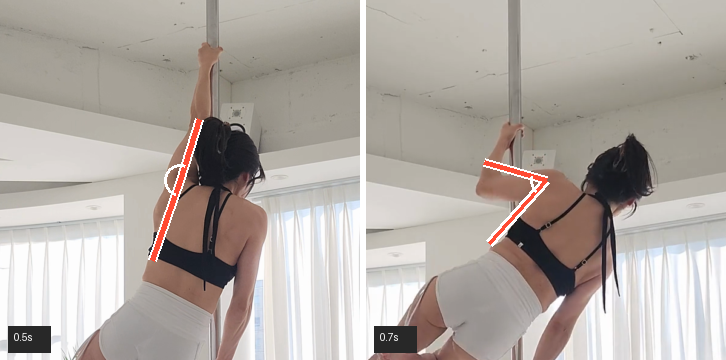
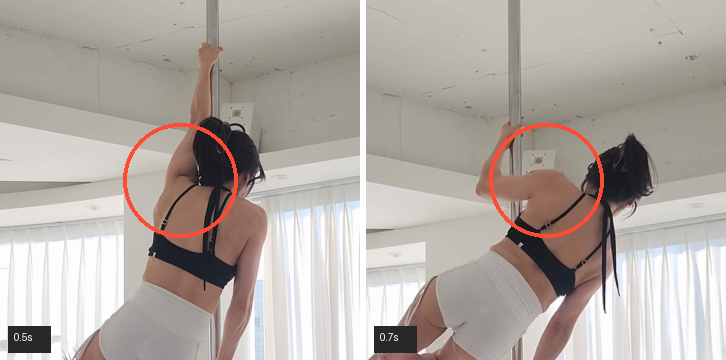
feat(quick-260814-rcz): 각도 V 마크 적용 조건 게이트 배선 (순수 함수 + 진입점 1곳)
belle 08-14 "잘한 영상쪽 각도가 좀 애매해" 의 처방. 임계는 Task 2 에서 재고
정한 값(MEASURE.md 소유)이고 여기서는 배선만 한다.

- angle_mark_admissible(user_inner, ref_inner) -> (그릴지, 사유) 순수 함수
- ANGLE_MARK_MAX_PANEL_DIFF_DEG = 99.6 — 어떤 카드 집합에서 어떻게 쟀는지
  모듈 주석에 박제(P 9건/N 1건, 축 A1~A6 기각 사유, 표본 한계 14.77도 여유)
- 배선 = 각도 베이크 블록, shift_bake_spec 적용 직후(실제로 그려질 좌표) 1곳.
  하이브리드가 쓰던 _spec_inner_deg_px 호출과 공유 = 중복 계산 0
- 미충족이면 angle_reason 에 사유만 넣고 드로잉 skip -> 기존 원 마커 폴백으로
  자연히 떨어진다(3635행 분기 무변경, 새 표면 0)
- fail-open: 사이각 None/비유한/비수치면 오늘과 동일하게 그린다

무회귀 실측 (실행 로그가 증인):
- 승인 5동작 카드 10/10 md5 == u8i 정본 (패치 전/후 전건 동일)
- cand17B(belle 채택) md5 동일 — 무손상
- cand01E 만 변경 + 운영 로그 `angle_bake=omitted:panel_diff_114.4` 실물
- 카드 PNG 육안 확인: V 소멸 + 양 패널 원 마커 폴백 (새 표면 0)

게이트: 신규 22 PASS · pytest 기준선 59 failed 동일(4325->4347 passed) ·
typecheck PASS · 산식 5파일 diff 0 · Gemini 실호출 0 · Pod 무접촉

diff --git a/backend/tests/test_fault_zoom_angle_admissible.py b/backend/tests/test_fault_zoom_angle_admissible.py
@@ -1,0 +1,122 @@
+"""각도 V 마크 적용 조건 게이트 — quick-260814-rcz Task 3.
+
+belle 2026-08-14 (powerspin cand01E): "각도를 표기한다고 해도 잘한 영상쪽 각도가
+좀 애매해 저렇게 표기하는게 맞는지 모르겠네".
+
+임계의 **소유자는 MEASURE.md** 이고 이 테스트는 그것을 고정만 한다. 테스트를
+통과시키려고 임계를 움직이면 커브핏이므로 금지 — 임계를 바꾸려면 먼저 다시 재고
+MEASURE.md 를 갱신해야 한다 ([[recommend-only-after-measuring-the-deciding-fact]]).
+
+표 값은 quick-260814-rcz MEASURE.md §2-1 실측표 그대로다 (승인 코퍼스에서 V 가
+실제로 그려진 카드 8건 + belle 채택 후보 cand17B = P, belle 반려 cand01E = N).
+"""
+
+from __future__ import annotations
+
+import math
+
+import pytest
+
+from sunity_shared.analysis.fault_zoom import (
+    ANGLE_MARK_MAX_PANEL_DIFF_DEG,
+    angle_mark_admissible,
+)
+
+# ── MEASURE.md §2-1 실측표 (label, ref 사이각, user 사이각) ──────────────────
+# P = 통과집합 — 전부 V 가 유지돼야 한다 (승인 무회귀 1급).
+MEASURED_PASS = [
+    ("elbow/right_elbow", 18.614035012831458, 103.45907549334406),
+    ("elbow/right_knee", 170.30981229090804, 175.9879413550348),
+    ("pdshapefault/left_elbow", 29.486102732057176, 93.35321792927164),
+    ("pdshapefault/left_knee", 93.82616161701502, 131.92112201738868),
+    ("pdshapefault/left_shoulder", 159.99996695651387, 151.93072159297313),
+    ("pdshapefault/right_elbow", 167.02890688456324, 177.38258164444048),
+    ("peterpan/left_shoulder", 149.30943827800795, 164.77100485841947),
+    ("powerspin/left_shoulder", 110.42622944972304, 169.5738238793276),
+    ("pdshapefault/cand17B/left_elbow", 172.6034941287, 109.74123762695616),
+]
+# N = 반려집합 — V 가 억제돼야 한다. **표본 1건**(MEASURE.md §3-3).
+MEASURED_SUPPRESS = [
+    ("powerspin/cand01E/left_shoulder", 64.51029691354823, 178.91443216834273),
+]
+
+
+@pytest.mark.parametrize("label,ref,user", MEASURED_PASS)
+def test_measured_pass_set_keeps_mark(label: str, ref: float, user: float) -> None:
+    ok, reason = angle_mark_admissible(user, ref)
+    assert ok, f"{label}: 승인/채택 카드의 V 가 억제됐다 (사유 {reason})"
+    assert reason == "admissible"
+
+
+@pytest.mark.parametrize("label,ref,user", MEASURED_SUPPRESS)
+def test_measured_suppress_set_drops_mark(
+    label: str, ref: float, user: float
+) -> None:
+    ok, reason = angle_mark_admissible(user, ref)
+    assert not ok, f"{label}: belle 반려 카드의 V 가 그대로 그려진다"
+    assert reason.startswith("panel_diff_")
+
+
+def test_threshold_lies_strictly_inside_the_measured_gap() -> None:
+    """임계는 P 최대와 N 사이에 **엄격히** 있어야 한다 (MEASURE.md §3-1).
+
+    이 단언이 곧 "승인 카드를 죽이지 않는다"의 산술적 증거다 — 임계가 P 최대보다
+    작아지는 순간 승인 카드가 조용히 사라진다 (T-rcz-04).
+    """
+    p_max = max(abs(u - r) for _, r, u in MEASURED_PASS)
+    n_min = min(abs(u - r) for _, r, u in MEASURED_SUPPRESS)
+    assert p_max < ANGLE_MARK_MAX_PANEL_DIFF_DEG <= n_min, (
+        f"임계 {ANGLE_MARK_MAX_PANEL_DIFF_DEG} 가 실측 구간 "
+        f"({p_max:.2f}, {n_min:.2f}) 밖"
+    )
+    # 사전 규칙 §1-3 의 마진 조건 — 분리 마진 >= P 산포의 20%.
+    diffs = [abs(u - r) for _, r, u in MEASURED_PASS]
+    spread = max(diffs) - min(diffs)
+    assert (n_min - p_max) >= spread * 0.20
+
+
+@pytest.mark.parametrize(
+    "user,ref",
+    [
+        (None, 120.0),
+        (120.0, None),
+        (None, None),
+        (float("nan"), 10.0),
+        (10.0, float("inf")),
+        ("170", 10.0),
+        (True, 10.0),  # bool 은 int 서브클래스라 명시 배제
+    ],
+)
+def test_unmeasurable_fails_open(user, ref) -> None:
+    """사이각을 못 재면 오늘과 동일하게 **그린다** — 무회귀 우선."""
+    ok, reason = angle_mark_admissible(user, ref)
+    assert ok is True
+    assert reason == "unmeasurable"
+
+
+def test_boundary_is_inclusive_on_suppression_side() -> None:
+    """임계 정확히 = 억제. 경계 규칙을 코드가 아니라 테스트가 고정한다."""
+    thr = ANGLE_MARK_MAX_PANEL_DIFF_DEG
+    assert angle_mark_admissible(0.0, thr)[0] is False
+    assert angle_mark_admissible(0.0, thr - 0.001)[0] is True
+
+
+def test_symmetric_in_arguments() -> None:
+    """어느 패널을 먼저 넣든 같은 판정 — |Δ| 축이므로 방향 비의존."""
+    for _, ref, user in MEASURED_PASS + MEASURED_SUPPRESS:
+        assert angle_mark_admissible(user, ref) == angle_mark_admissible(ref, user)
+
+
+def test_reason_string_carries_the_measured_value() -> None:
+    """로그가 배선의 증인 — 사유에 실측값이 실려야 사후 추적이 된다."""
+    _, ref, user = MEASURED_SUPPRESS[0]
+    ok, reason = angle_mark_admissible(user, ref)
+    assert not ok
+    assert f"{abs(user - ref):.1f}" in reason
+
+
+def test_threshold_is_a_single_declared_constant() -> None:
+    """임계는 상수 1개 — 동작명/criterion 분기 0 (D-41)."""
+    assert isinstance(ANGLE_MARK_MAX_PANEL_DIFF_DEG, float)
+    assert math.isfinite(ANGLE_MARK_MAX_PANEL_DIFF_DEG)
+    assert 0.0 < ANGLE_MARK_MAX_PANEL_DIFF_DEG < 180.0
